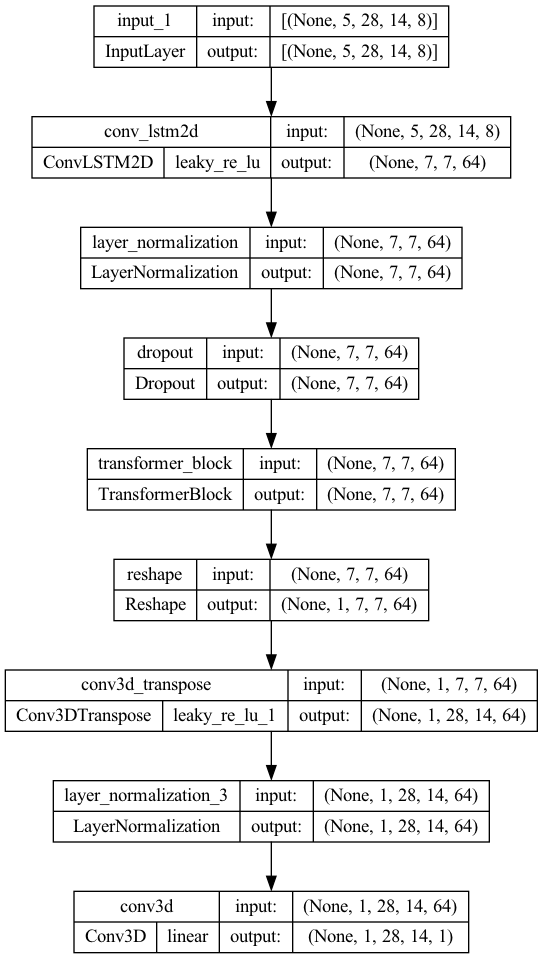
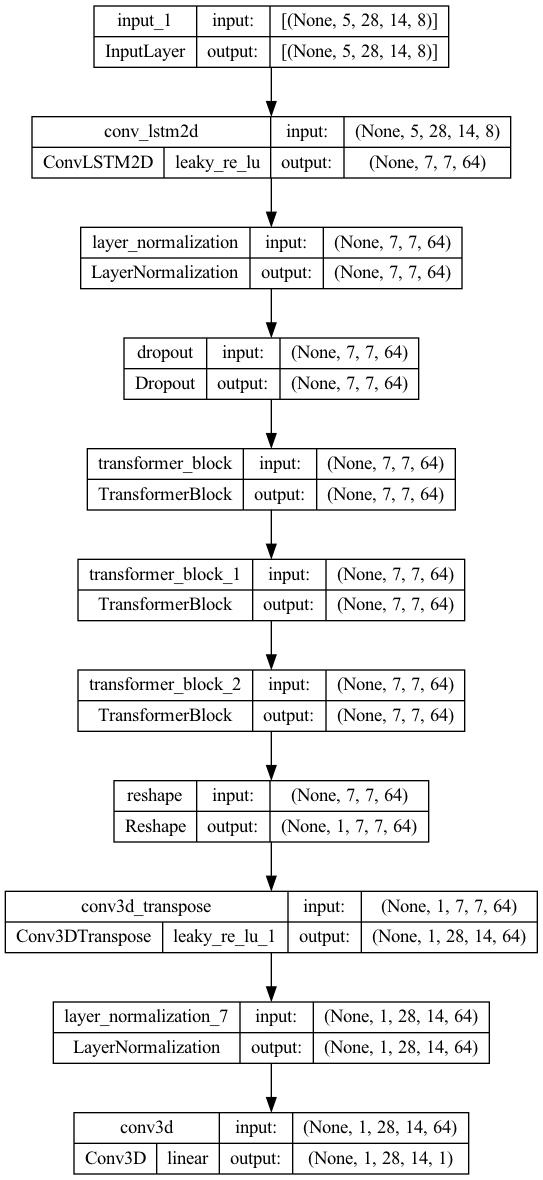
denoisetrans

Changed region(s): [[0.0, 0.0, 1.0, 0.9979]]

diff --git a/main.py b/main.py
@@ -20,15 +20,9 @@ region = config['REGION']
 model_save_path = config['MODEL_SAVE_PATH']
 
 assert (region in ['Whole_Area', 'South_Land', 'North_Land', 'East_Ocean', 'West_Ocean']), "'region' must be 'Whole_Area', 'South_Land', 'North_Land', 'East_Ocean', 'West_Ocean'. Got: "+str(region)
-assert (model_type in ['RF', 'GBM', 'Linear', 'Dense', 'Conv', 'ConvLSTM', 'RBDN', 'Split', 'Denoise', 'Trans']), "'model_type' must be 'RF', 'Dense', 'Conv', 'ConvLSTM', 'RBDN', 'Split', 'Denoise', 'Trans'. Got: "+str(model_type)
-
+assert (model_type in ['RF', 'GBM', 'Linear', 'Dense', 'Conv', 'ConvLSTM', 'RBDN', 'Split', 'Denoise', 'DenoiseTrans', 'Trans']), "'model_type' must be 'RF', 'Dense', 'Conv', 'ConvLSTM', 'RBDN', 'Split', 'Denoise', 'DenoiseTrans', 'Trans'. Got: "+str(model_type)
 
 short = {'Whole_Area':'WA', 'South_Land':'SL', 'North_Land':'NL', 'East_Ocean':'EO', 'West_Ocean':'WO'}
-
-print(model_type)
-print(model_type)
-print(model_type)
-print(model_type)
 #====================================================================
 if (model_type == 'Linear'):
     # TrainKerasModel('config.yml',
@@ -67,11 +61,12 @@ elif (model_type == 'Denoise'):
                    model_name='Denoise_reg='+short[region]+'_h=5_f=1_In=OFTUVXYD_Out=O_e='+str(e))
 #--------------------------------------------------------------------
 elif (model_type == 'DenoiseTrans'):
-    e = config['HYPERPARAMETERS']['denoise_hyperparams_dict']['epochs']
+    e         = config['HYPERPARAMETERS']['denoise_hyperparams_dict']['epochs']
+    num_trans = config['HYPERPARAMETERS']['denoise_hyperparams_dict']['num_trans']
     TrainKerasModel('config.yml',
                     model_save_path=os.path.join(model_save_path, 'DenoiseTrans'))
     TestKerasModel('config.yml',
-                   model_name='DenoiseTrans_reg='+short[region]+'_h=5_f=1_t=1_In=OFTUVXYD_Out=O_e='+str(e))
+                   model_name='DenoiseTrans_reg='+short[region]+'_h=5_f=1_t='+str(num_trans)+'_In=OFTUVXYD_Out=O_e='+str(e))
 #-------------------------------------------------------------------- 
 elif (model_type == 'ConvLSTM'):
     e = config['HYPERPARAMETERS']['trans_hyperparams_dict']['epochs']

diff --git a/ml/denoise3D_trans.py b/ml/denoise3D_trans.py
@@ -54,10 +54,11 @@ def MakeDenoise3DTrans(config_path,
     x = LayerNormalization()(x)
     x = Dropout(rate=0.1)(x)
 
-    x = TransformerBlock(embed_dim=x.shape[-1], # Must always be prev_layer.shape[-1]
-                         num_heads=4,
-                         ff_dim=outer_filters, # Must always be next_layer.shape[-1]
-                         attn_axes=(1, 2, 3))(x)   # If input is (Batch, time, d1,...,dn, embed_dim), must be indices of (d1,...,dn)
+    for _ in range(num_trans):
+        x = TransformerBlock(embed_dim=x.shape[-1], # Must always be prev_layer.shape[-1]
+                            num_heads=4,
+                            ff_dim=outer_filters, # Must always be next_layer.shape[-1]
+                            attn_axes=(1, 2, 3))(x)   # If input is (Batch, time, d1,...,dn, embed_dim), must be indices of (d1,...,dn)
 
     pre_latent_size = x.shape
     #---------------------------------------------------------------
@@ -109,13 +110,13 @@ def MakeDenoise3DTrans(config_path,
 # x_train = np.random.rand(100, 5, 28, 14, 8)
 # y_train = np.random.rand(100, 1, 28, 14, 1)
 
-# autoencoder = MakeDenoise('config.yml',
-#                           x_data_shape=x_train.shape,
-#                           y_data_shape=y_train.shape)
+# model = MakeDenoise3DTrans('config.yml',
+#                            x_data_shape=x_train.shape,
+#                            y_data_shape=y_train.shape)
 
-# autoencoder.compile(loss='mse',optimizer=keras.optimizers.Adam(learning_rate=0.001))
+# model.compile(loss='mse',optimizer=keras.optimizers.Adam(learning_rate=0.001))
 
-# history = autoencoder.fit(x=x_train,
+# history = model.fit(x=x_train,
 #                           y=y_train,
 #                           epochs=10,
 #                           batch_size=32)

diff --git a/ml/train_test_keras.py b/ml/train_test_keras.py
@@ -106,7 +106,7 @@ def TrainKerasModel(config_path, model_name=None, model_save_path='/Users/joshua
         batch_size = config['HYPERPARAMETERS']['denoise_hyperparams_dict']['batch_size']
     
     elif (config['MODEL_TYPE'] == 'DenoiseTrans'):
-        model = MakeDenoise(config_path, np.shape(x_train), np.shape(y_train))
+        model = MakeDenoise3DTrans(config_path, np.shape(x_train), np.shape(y_train))
         num_epochs = config['HYPERPARAMETERS']['denoise_hyperparams_dict']['epochs']
         batch_size = config['HYPERPARAMETERS']['denoise_hyperparams_dict']['batch_size']
     
